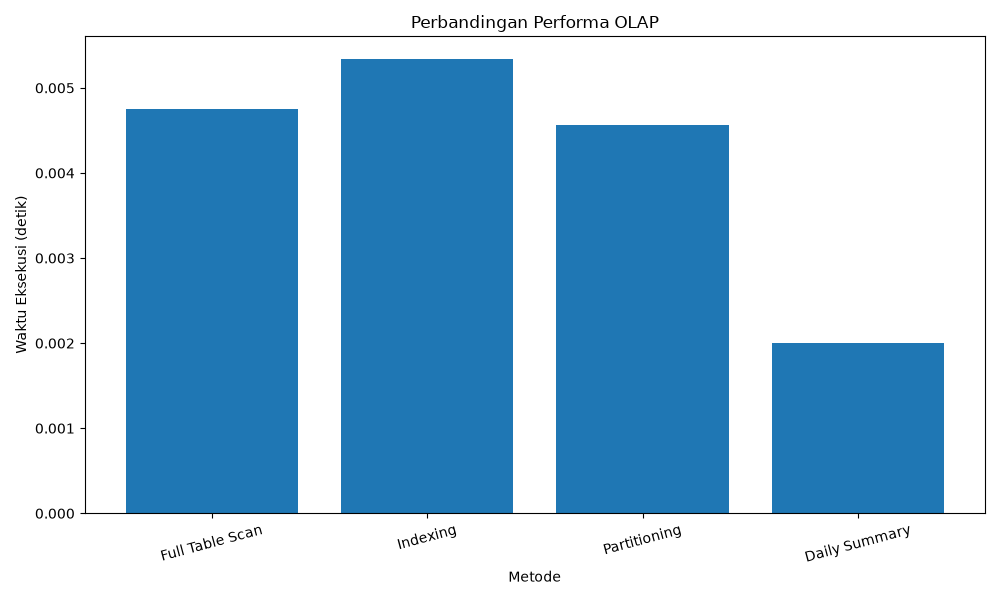
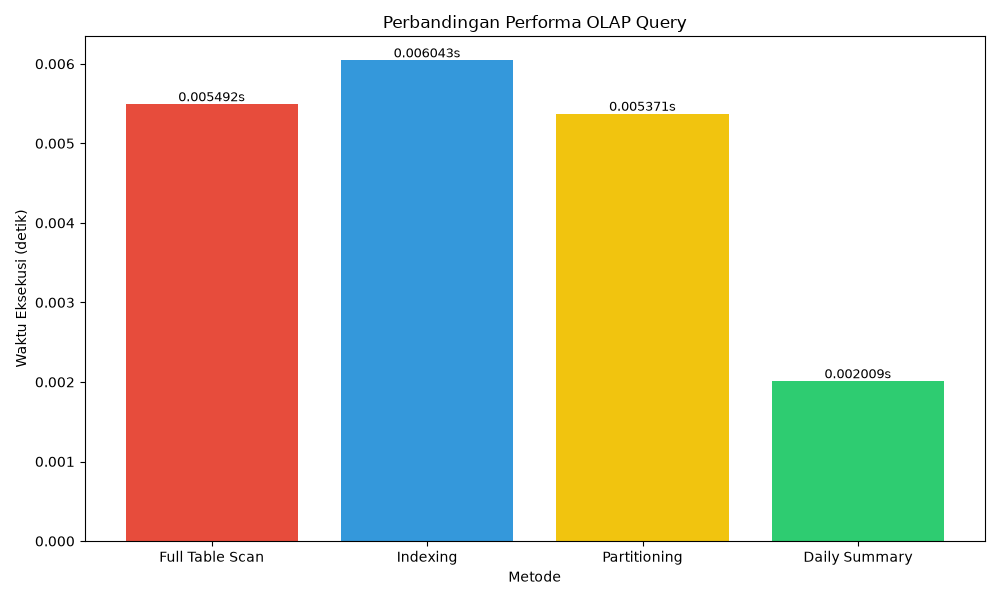
docs: perbarui skrip benchmark dan grafik hasil OLAP

diff --git a/benchmark.py b/benchmark.py
@@ -1,4 +1,3 @@
-
 import time
 import os
 import pandas as pd
@@ -6,9 +5,9 @@ import mysql.connector
 import matplotlib.pyplot as plt
 from statistics import median
 
-# Koneksi database
+# 1. Koneksi Database
 db = mysql.connector.connect(
-    host="localhost",
+    host="127.0.0.1",
     user="root",
     password="",
     database="etl_bank"
@@ -18,27 +17,23 @@ cursor = db.cursor()
 
 os.makedirs("outputs", exist_ok=True)
 
-# Membuat tabel pembanding tanpa partition
+# 2. Siapkan Tabel Unpartitioned
 cursor.execute("DROP TABLE IF EXISTS fact_unpartitioned")
-
 cursor.execute("""
 CREATE TABLE fact_unpartitioned AS
 SELECT * FROM fact_transaction
 """)
-
 cursor.execute("""
 CREATE INDEX idx_date_unpartitioned
 ON fact_unpartitioned(transaction_date)
 """)
-
 db.commit()
 
-# Menentukan rentang tanggal
+# 3. Ambil Rentang Tanggal
 cursor.execute("""
 SELECT MIN(transaction_date), MAX(transaction_date)
 FROM fact_transaction
 """)
-
 start, finish = cursor.fetchone()
 
 if start is None:
@@ -46,10 +41,10 @@ if start is None:
 
 end = finish + pd.Timedelta(days=1)
 
-# Query pengujian
+# 4. Definisi Query Pengujian
 queries = {
     "Full Table Scan": """
-        SELECT transaction_date,
+        SELECT SQL_NO_CACHE transaction_date,
                COUNT(*) AS total_transaksi,
                SUM(amount) AS total_nominal
         FROM fact_unpartitioned IGNORE INDEX(idx_date_unpartitioned)
@@ -59,7 +54,7 @@ queries = {
     """,
 
     "Indexing": """
-        SELECT transaction_date,
+        SELECT SQL_NO_CACHE transaction_date,
                COUNT(*) AS total_transaksi,
                SUM(amount) AS total_nominal
         FROM fact_unpartitioned FORCE INDEX(idx_date_unpartitioned)
@@ -69,7 +64,7 @@ queries = {
     """,
 
     "Partitioning": """
-        SELECT transaction_date,
+        SELECT SQL_NO_CACHE transaction_date,
                COUNT(*) AS total_transaksi,
                SUM(amount) AS total_nominal
         FROM fact_transaction
@@ -79,7 +74,7 @@ queries = {
     """,
 
     "Daily Summary": """
-        SELECT transaction_date,
+        SELECT SQL_NO_CACHE transaction_date,
                SUM(total_transaction),
                SUM(total_amount)
         FROM daily_summary
@@ -89,27 +84,31 @@ queries = {
     """
 }
 
+# 5. Fungsi Warm-up Buffer Global (Beban awal diratakan ke seluruh tabel)
+def warm_up_buffer():
+    cursor.execute("SELECT COUNT(*), SUM(amount) FROM fact_unpartitioned")
+    cursor.fetchall()
+    cursor.execute("SELECT COUNT(*), SUM(amount) FROM fact_transaction")
+    cursor.fetchall()
+    cursor.execute("SELECT COUNT(*), SUM(total_amount) FROM daily_summary")
+    cursor.fetchall()
+
+warm_up_buffer()
+
 hasil = []
 
 print("\n========== BENCHMARK OLAP ==========")
 
 for nama, query in queries.items():
-
     waktu = []
 
-    # Pemanasan query
-    cursor.execute(query, (start, end))
-    cursor.fetchall()
-
-    # Pengujian 7 kali
-    for i in range(7):
+    # Pengujian 10 kali
+    for i in range(10):
         awal = time.perf_counter()
-
         cursor.execute(query, (start, end))
         cursor.fetchall()
-
         akhir = time.perf_counter()
-
+        
         waktu.append(akhir - awal)
 
     rata = median(waktu)
@@ -121,10 +120,9 @@ for nama, query in queries.items():
 
     print(f"{nama}: {rata:.6f} detik")
 
-# Membuat DataFrame hasil
+# 6. Pemrosesan Hasil
 df_hasil = pd.DataFrame(hasil)
 
-# Persentase peningkatan
 baseline = df_hasil.loc[
     df_hasil["Metode"] == "Full Table Scan",
     "Waktu (detik)"
@@ -134,26 +132,26 @@ df_hasil["Peningkatan (%)"] = (
     (baseline - df_hasil["Waktu (detik)"]) / baseline
 ) * 100 if baseline > 0 else 0
 
-# Simpan CSV
-df_hasil.to_csv(
-    "outputs/benchmark_results.csv",
-    index=False
-)
+df_hasil.to_csv("outputs/benchmark_results.csv", index=False)
 
-# Grafik
+# 7. Visualisasi Grafik
 plt.figure(figsize=(10, 6))
-
-plt.bar(
+bars = plt.bar(
     df_hasil["Metode"],
-    df_hasil["Waktu (detik)"]
+    df_hasil["Waktu (detik)"],
+    color=['#e74c3c', '#3498db', '#f1c40f', '#2ecc71']
 )
 
-plt.title("Perbandingan Performa OLAP")
+plt.title("Perbandingan Performa OLAP Query")
 plt.xlabel("Metode")
 plt.ylabel("Waktu Eksekusi (detik)")
-plt.xticks(rotation=15)
-plt.tight_layout()
+plt.xticks(rotation=0)
 
+for bar in bars:
+    yval = bar.get_height()
+    plt.text(bar.get_x() + bar.get_width()/2.0, yval, f'{yval:.6f}s', ha='center', va='bottom', fontsize=9)
+
+plt.tight_layout()
 plt.savefig("outputs/benchmark_olap.png")
 plt.close()
 
